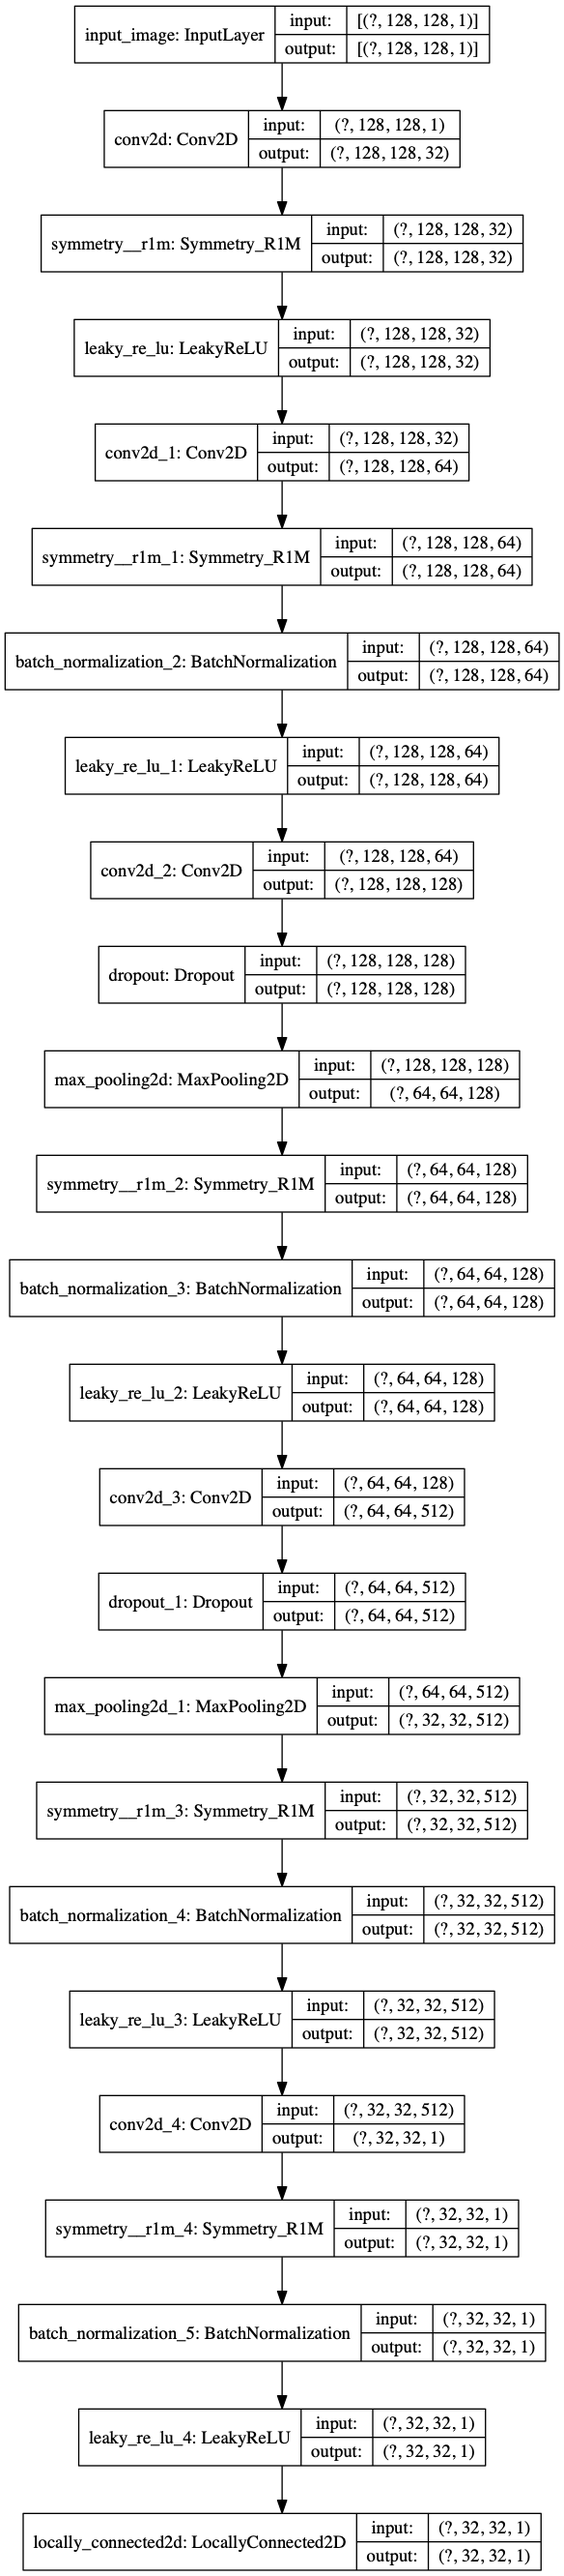
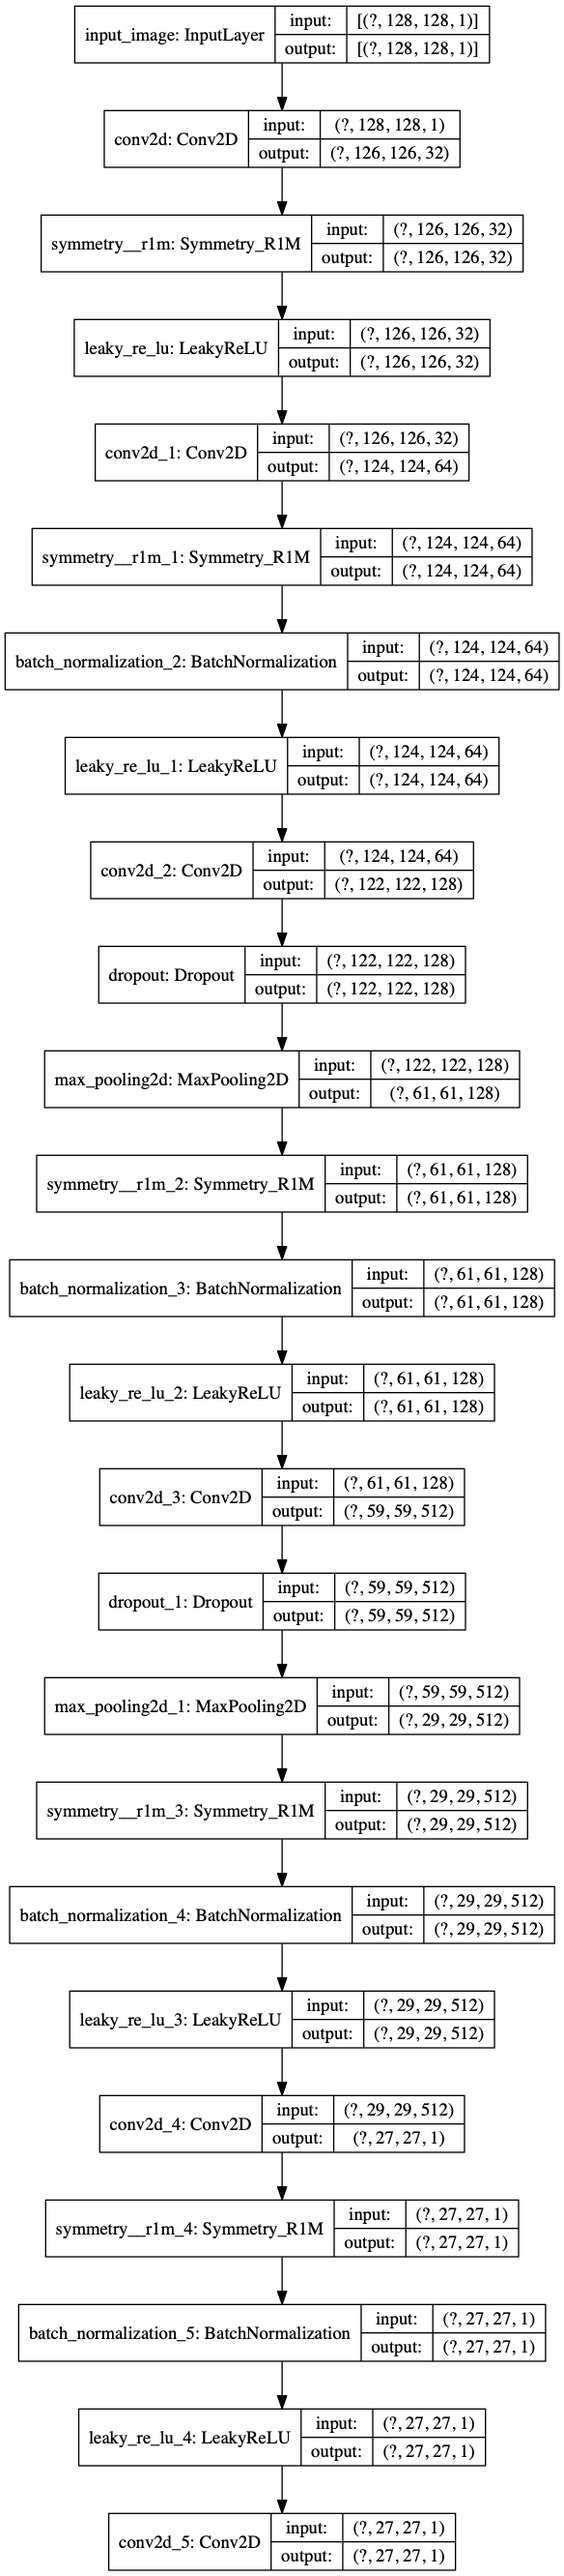
updtate

diff --git a/model.py b/model.py
@@ -169,33 +169,33 @@ def make_generator_model(len_low_size=16, scale=4):
 
     Rech = Reconstruct_R1M(1024, name='rec_high')(WeiR1Ml)
 
-    conv1 = tf.keras.layers.Conv2D(128, [3, 3], strides=1, padding='same', data_format="channels_last", 
+    '''conv1 = tf.keras.layers.Conv2D(128, [3, 3], strides=1, padding='same', data_format="channels_last", 
                                     activation='relu', use_bias=False,
                                     kernel_initializer=tf.keras.initializers.RandomNormal(mean=0.01, stddev=0.1), 
                                     name='conv1_1')(Rech)
     conv1 = tf.keras.layers.Conv2D(64, [3, 3], strides=1, padding='same', data_format="channels_last", 
                                     activation='relu', use_bias=False,
                                     kernel_initializer=tf.keras.initializers.RandomNormal(mean=0.01, stddev=0.1), 
-                                    name='conv1_2')(conv1)
-    trans_1 = Subpixel(filters= int(64), kernel_size=(3,3), r=2, 
+                                    name='conv1_2')(conv1)'''
+    trans_1 = Subpixel(filters= int(32), kernel_size=(3,3), r=2, 
                         activation='relu', use_bias=False, padding='same', 
                         kernel_initializer=tf.keras.initializers.RandomNormal(mean=0.01, stddev=0.1), 
-                        name='subpixel_1')(conv1)
+                        name='subpixel_1')(Rech)
     batchnorm = tf.keras.layers.BatchNormalization()(trans_1)
     sym = Symmetry_R1M(name='SYM_1')(batchnorm)
 
-    conv2 = tf.keras.layers.Conv2D(64, [3, 3], strides=1, padding='same', data_format="channels_last", 
+    '''conv2 = tf.keras.layers.Conv2D(64, [3, 3], strides=1, padding='same', data_format="channels_last", 
                                     activation='relu', use_bias=False,
                                     kernel_initializer=tf.keras.initializers.RandomNormal(mean=0.01, stddev=0.1), 
                                     name='conv2_1')(sym)
     conv2 = tf.keras.layers.Conv2D(32, [3, 3], strides=1, padding='same', data_format="channels_last", 
                                     activation='relu', use_bias=False,
                                     kernel_initializer=tf.keras.initializers.RandomNormal(mean=0.01, stddev=0.1), 
-                                    name='conv2_2')(conv2)
+                                    name='conv2_2')(conv2)'''
     trans_2 = Subpixel(filters= int(32), kernel_size=(3,3), r=2, 
                         activation='relu', use_bias=False, padding='same', 
                         kernel_initializer=tf.keras.initializers.RandomNormal(mean=0.01, stddev=0.1), 
-                        name='subpixel_2')(conv2)
+                        name='subpixel_2')(sym)
     batchnorm = tf.keras.layers.BatchNormalization()(trans_2)
     sym = Symmetry_R1M(name='SYM_2')(batchnorm)
     Sumh = tf.keras.layers.Conv2D(filters=1, kernel_size=(1,1),
@@ -219,36 +219,36 @@ def make_discriminator_model(len_low_size=16, scale=4):
     inp = tf.keras.layers.Input(shape=[len_high_size, len_high_size, 1], name='input_image')
 
     #zero_pad = tf.keras.layers.ZeroPadding2D()(inp)
-    conv = tf.keras.layers.Conv2D(32, 3, strides=1, padding='same', kernel_initializer=tf.keras.initializers.RandomNormal(mean=0.01, stddev=0.1), use_bias=False)(inp)
+    conv = tf.keras.layers.Conv2D(32, 3, strides=1, padding='valid', kernel_initializer=tf.keras.initializers.RandomNormal(mean=0.0, stddev=0.2), use_bias=False)(inp)
     #pool = tf.keras.layers.AveragePooling2D()(conv)
     sym = Symmetry_R1M()(conv)
     leaky_relu = tf.keras.layers.LeakyReLU(0.2)(sym)
 
-    conv = tf.keras.layers.Conv2D(64, 3, strides=1, padding='same', kernel_initializer=tf.keras.initializers.RandomNormal(mean=0.01, stddev=0.1), use_bias=False)(leaky_relu)
+    conv = tf.keras.layers.Conv2D(64, 3, strides=1, padding='valid', kernel_initializer=tf.keras.initializers.RandomNormal(mean=0.0, stddev=0.2), use_bias=False)(leaky_relu)
     sym = Symmetry_R1M()(conv)
     batchnorm = tf.keras.layers.BatchNormalization()(sym)
     leaky_relu = tf.keras.layers.LeakyReLU(0.2)(batchnorm)
 
-    conv = tf.keras.layers.Conv2D(128, 3, strides=1, padding='same', kernel_initializer=tf.keras.initializers.RandomNormal(mean=0.01, stddev=0.1), use_bias=False)(leaky_relu)
+    conv = tf.keras.layers.Conv2D(128, 3, strides=1, padding='valid', kernel_initializer=tf.keras.initializers.RandomNormal(mean=0.01, stddev=0.2), use_bias=False)(leaky_relu)
     conv = tf.keras.layers.Dropout(0.1)(conv)
     pool = tf.keras.layers.MaxPooling2D()(conv)
     sym = Symmetry_R1M()(pool)
     batchnorm = tf.keras.layers.BatchNormalization()(sym)
     leaky_relu = tf.keras.layers.LeakyReLU(0.2)(batchnorm)
 
-    conv = tf.keras.layers.Conv2D(512, 3, strides=1, padding='same', kernel_initializer=tf.keras.initializers.RandomNormal(mean=0.01, stddev=0.1), use_bias=False)(leaky_relu)
+    conv = tf.keras.layers.Conv2D(512, 3, strides=1, padding='valid', kernel_initializer=tf.keras.initializers.RandomNormal(mean=0.0, stddev=0.2), use_bias=False)(leaky_relu)
     conv = tf.keras.layers.Dropout(0.1)(conv)
     pool = tf.keras.layers.MaxPooling2D()(conv)
     sym = Symmetry_R1M()(pool)
     batchnorm = tf.keras.layers.BatchNormalization()(sym)
     leaky_relu = tf.keras.layers.LeakyReLU(0.2)(batchnorm)
 
-    conv = tf.keras.layers.Conv2D(1, 3, strides=1, padding='same', kernel_initializer=tf.keras.initializers.RandomNormal(mean=0.01, stddev=0.1), use_bias=False)(leaky_relu)
+    conv = tf.keras.layers.Conv2D(1, 3, strides=1, padding='valid', kernel_initializer=tf.keras.initializers.RandomNormal(mean=0.0, stddev=0.2), use_bias=False)(leaky_relu)
     sym = Symmetry_R1M()(conv)
     batchnorm = tf.keras.layers.BatchNormalization()(sym)
     leaky_relu = tf.keras.layers.LeakyReLU(0.2)(batchnorm)
 
-    last = tf.keras.layers.LocallyConnected2D(1, 1, strides=1, padding='valid', kernel_initializer=tf.keras.initializers.RandomNormal(mean=0.01, stddev=0.1), use_bias=False, activation='sigmoid')(leaky_relu)
+    last = tf.keras.layers.Conv2D(1, 1, strides=1, padding='valid', kernel_initializer=tf.keras.initializers.RandomNormal(mean=0.0, stddev=0.2), use_bias=False, activation='sigmoid')(leaky_relu)
     return tf.keras.Model(inputs=inp, outputs=last)
 
 def discriminator_bce_loss(real_output, fake_output):
@@ -311,20 +311,20 @@ def train_step_generator(Gen, Dis, imgl, imgr, loss_filter, loss_weights, opts, 
         disc_generated_output = Dis(tf.math.log1p(1000.0*fake_hic_h)/tf.math.log1p(1000.0), training=False)
         gen_high_v = []
         gen_high_v += Gen.get_layer('rec_high').trainable_variables
-        gen_high_v += Gen.get_layer('conv1_1').trainable_variables
-        gen_high_v += Gen.get_layer('conv1_2').trainable_variables
+        #gen_high_v += Gen.get_layer('conv1_1').trainable_variables
+        #gen_high_v += Gen.get_layer('conv1_2').trainable_variables
         gen_high_v += Gen.get_layer('subpixel_1').trainable_variables
         gen_high_v += Gen.get_layer('batch_normalization').trainable_variables
-        gen_high_v += Gen.get_layer('conv2_1').trainable_variables
-        gen_high_v += Gen.get_layer('conv2_2').trainable_variables
+        #gen_high_v += Gen.get_layer('conv2_1').trainable_variables
+        #gen_high_v += Gen.get_layer('conv2_2').trainable_variables
         gen_high_v += Gen.get_layer('subpixel_2').trainable_variables
         gen_high_v += Gen.get_layer('batch_normalization_1').trainable_variables
         gen_high_v += Gen.get_layer('sum_high').trainable_variables
         gen_high_v += Gen.get_layer('out_high').trainable_variables
         gen_loss_high_0 = generator_bce_loss(disc_generated_output) 
         gen_loss_high_1 = generator_mse_loss(fake_hic_h, imgr_filter)
-        gen_loss_high_2 = generator_ssim_loss(tf.math.log1p(1000.0*fake_hic_h)/tf.math.log1p(1000.0), tf.math.log1p(1000.0*imgr_filter)/tf.math.log1p(1000.0))
-        #gen_loss_high_2 = generator_ssim_loss(fake_hic_h, imgr_filter)
+        #gen_loss_high_2 = generator_ssim_loss(tf.math.log1p(1000.0*fake_hic_h)/tf.math.log1p(1000.0), tf.math.log1p(1000.0*imgr_filter)/tf.math.log1p(1000.0))
+        gen_loss_high_2 = generator_ssim_loss(fake_hic_h, imgr_filter)
 
         gen_loss_high = gen_loss_high_0*loss_weights[0]+ gen_loss_high_1*loss_weights[1] + gen_loss_high_2*loss_weights[2]
         gradients_of_generator_high = gen_tape_high.gradient(gen_loss_high, gen_high_v)
@@ -416,9 +416,9 @@ def train(gen, dis, dataset, epochs, len_low_size, scale, test_dataset=None):
         start = time.time()
         for i, (low_m, high_m) in enumerate(dataset):
             if(epoch<=2000):
-                loss_weights = [0.0, 10.0, 0.0]
+                loss_weights = [0.0, 10.0, 10.0]
             else:
-                loss_weights = [1.0, 10.0, 0.0]
+                loss_weights = [0.1, 10.0, 10.0]
 
             #if(epoch<450 or (epoch>=1050 and epoch%150<40)):
             if(epoch<500 or epoch>=2000):
